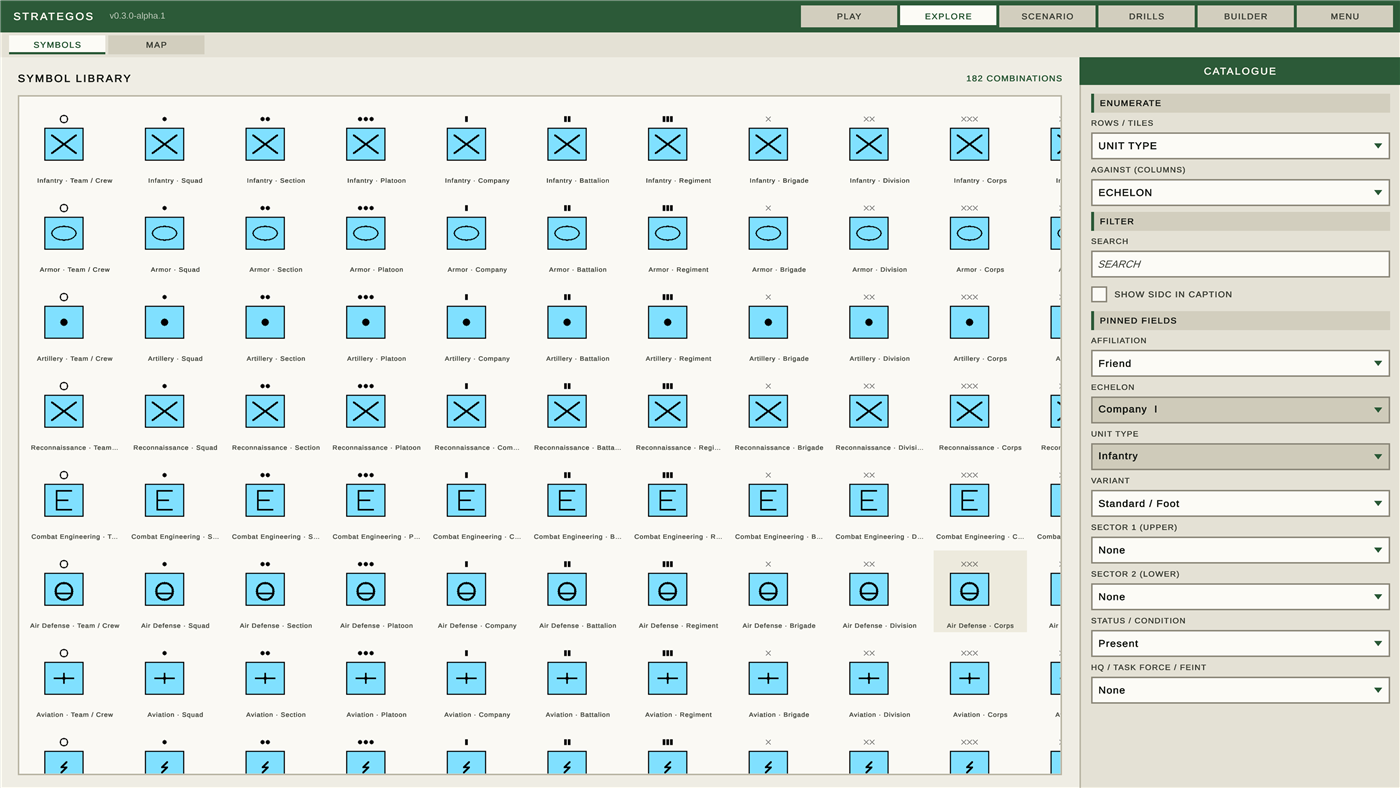
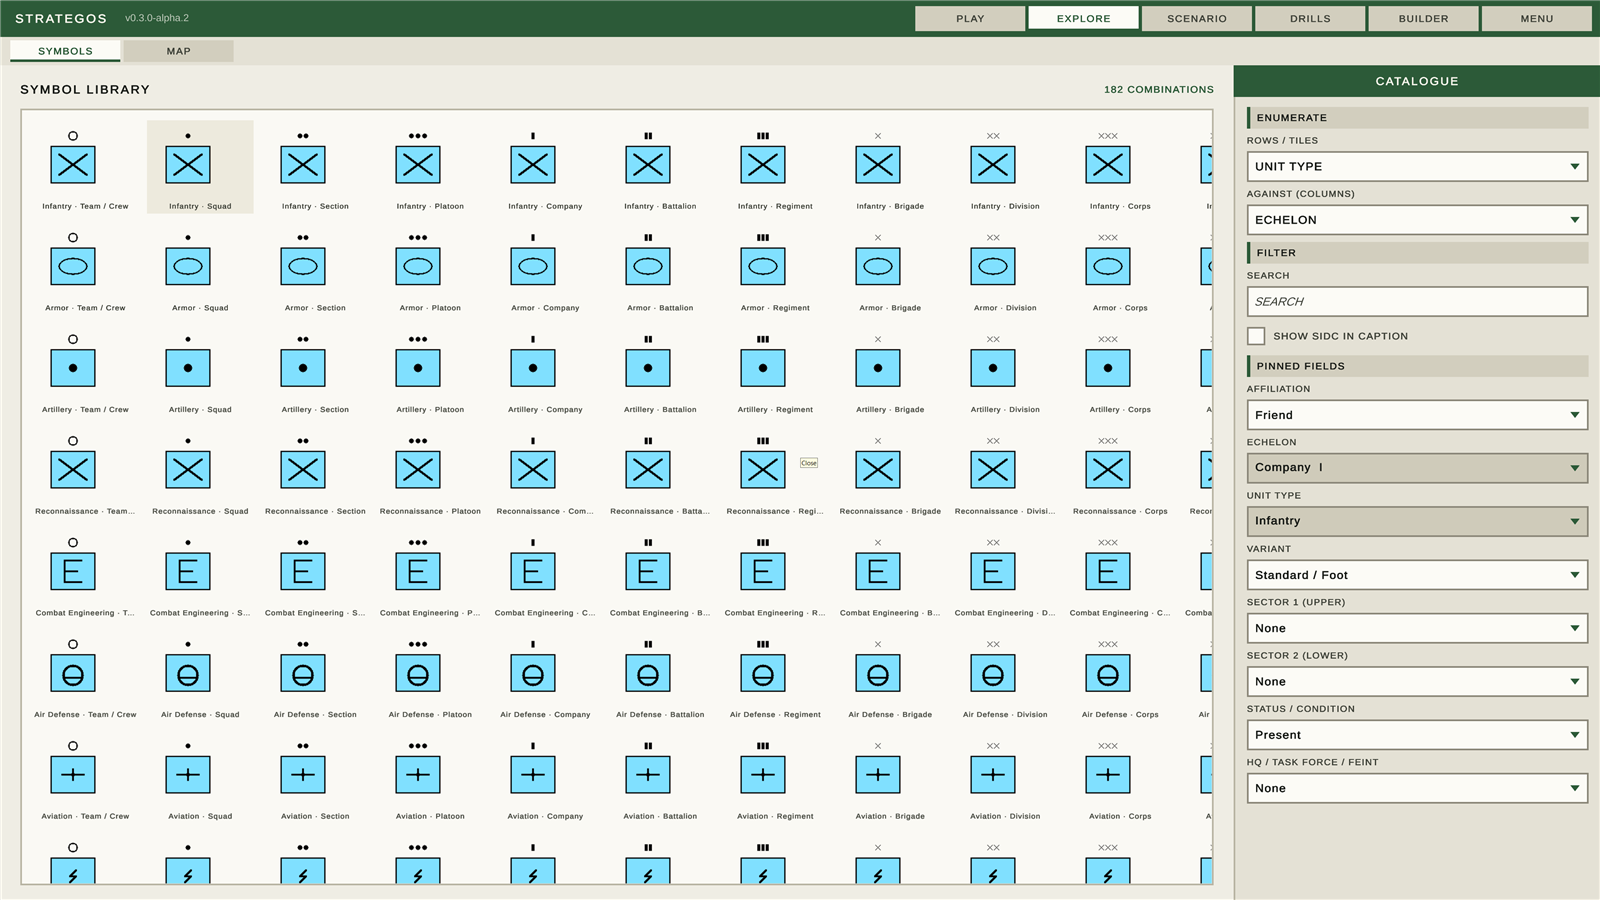
Refresh Pages screenshots from v0.3.0-alpha.2 Windows build. (#537)
Menu, PLAY Meeting Engagement, and EXPLORE symbol library captures replace the older stills; captions and Recent changes note the refresh.

diff --git a/site/index.html b/site/index.html
@@ -109,7 +109,7 @@
         <img src="images/play-meeting-engagement.png"
              alt="The PLAY view at scenario start: a topographic map with blue and red NATO APP-6D unit symbols around Objective Anvil, directive and campaign rail on the right, version v0.3.0-alpha.2 in the top bar.">
         <figcaption>
-          <span class="cap-label">PLAY, "Meeting Engagement," T+0009.</span>
+          <span class="cap-label">PLAY, "Meeting Engagement," T+0015.</span>
           Two sides on generated terrain around <em>Objective Anvil</em>. The right-hand rail
           carries the directive from higher, campaign start controls, AI difficulty, and the
           armed command palette (MOVE / ENGAGE / WAYPOINTS). Captured from
@@ -169,11 +169,14 @@
         <a href="https://github.com/aawadall/strategos/blob/master/CHANGELOG.md">CHANGELOG.md</a>.
       </p>
       <ul class="plain">
+        <li><strong>2026-08-07</strong> — Pages screenshots refreshed from the
+          <a href="https://github.com/aawadall/strategos/releases/tag/v0.3.0-alpha.2">v0.3.0-alpha.2</a>
+          Windows build (menu, PLAY Meeting Engagement, EXPLORE symbol library).</li>
         <li><strong>2026-08-05 — v0.3.0-alpha.2</strong> — first
           <a href="https://github.com/aawadall/strategos/releases/tag/v0.3.0-alpha.2">tagged GitHub Release</a>
           with a Windows player zip; version stamped into the build and shown in the top bar;
           front-door menu (splash, fit-height two-column layout, EXIT). Climb campaign seat ladder
-          and Steamworks stub seam also landed.</li>
+          and Steamworks stub seam also landed. Post-battle Merit ribbons on victory.</li>
         <li><strong>Earlier</strong> — mission-type orders complete (Screen through Pursue);
           campaign play starts / continues / mid-campaign-saves from PLAY; waypoints; armed
           MOVE/ENGAGE palette; audio beds and procedural SFX; display prefs; tutorial first beat.</li>
